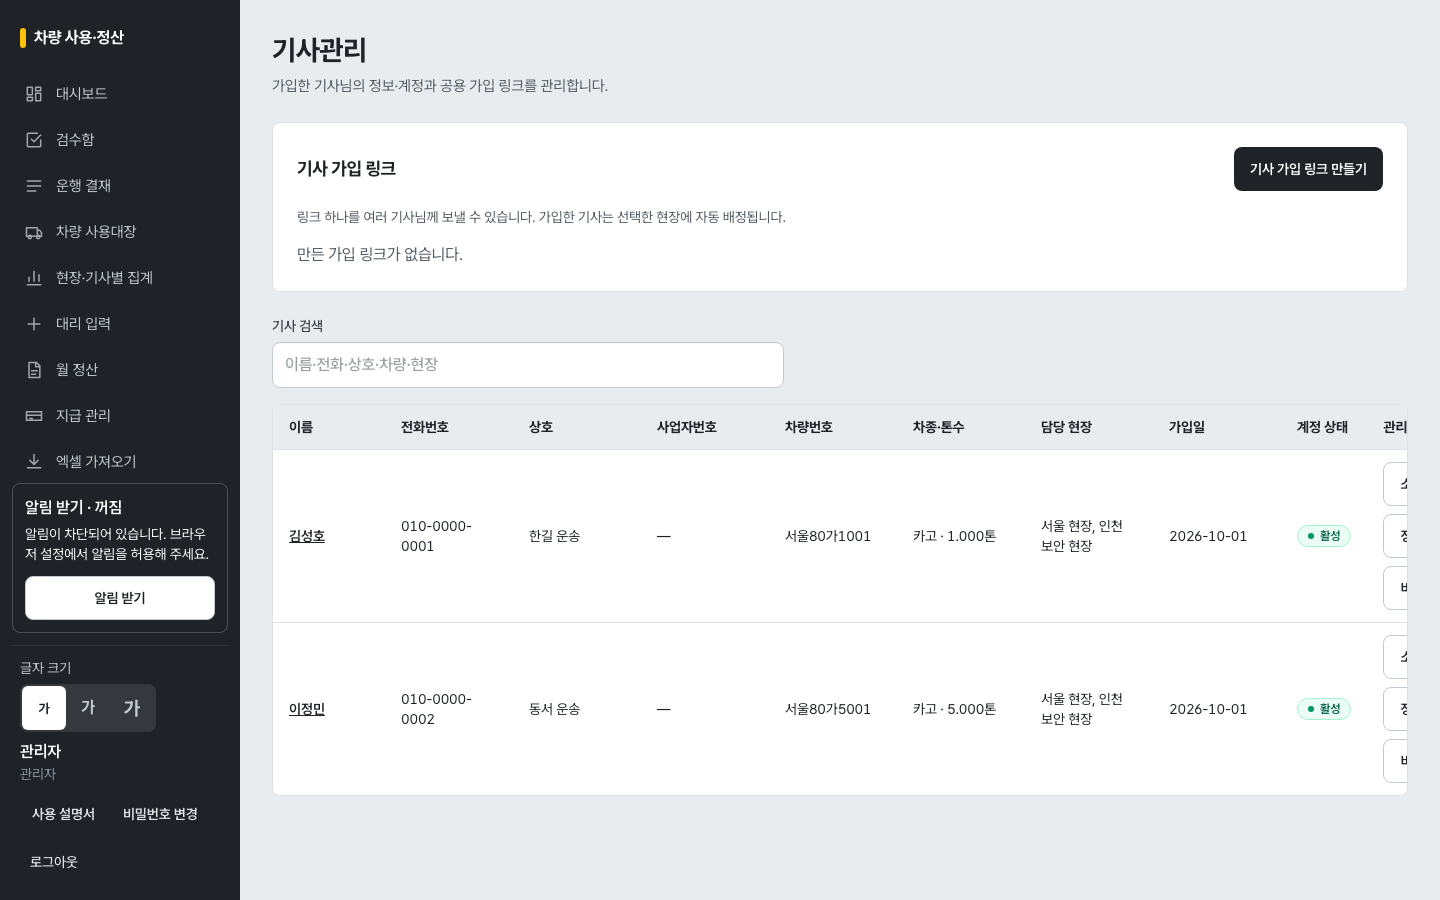
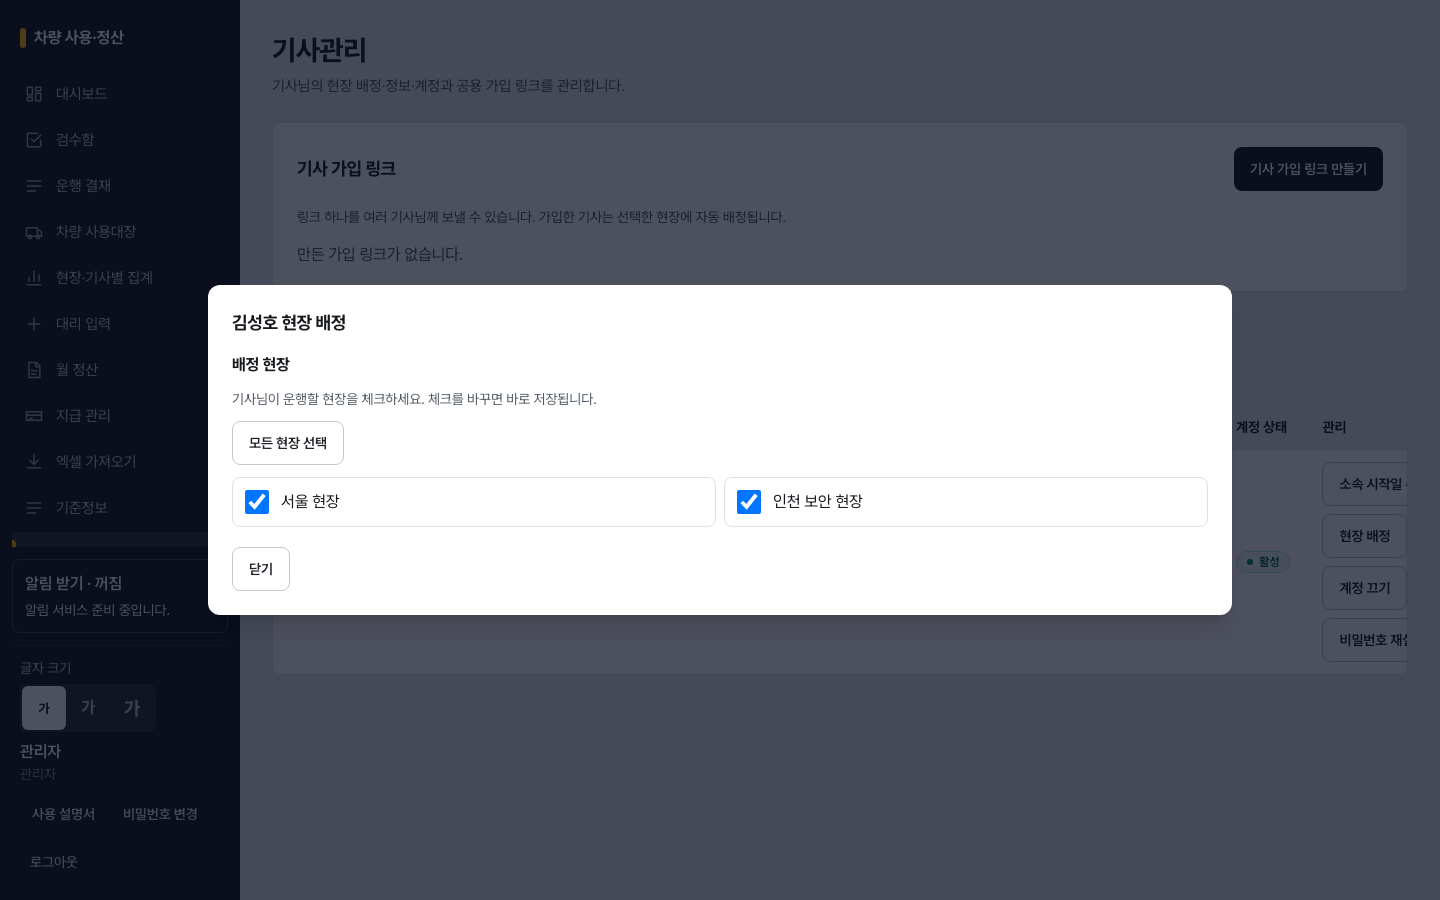
현장 배정 설명서와 로컬 캡처 두 장 갱신
관리자 설명에 현장 생성 시 자동 배정과 기사관리 배정 변경을 추가한다. 3191 로컬 시연 화면만 촬영하고 F3-ASSIGN 검증 결과와 공용 파일 변경을 기록한다.

diff --git a/src/app/manual/page.tsx b/src/app/manual/page.tsx
@@ -604,7 +604,12 @@ export default function ManualPage() {
             기사가 운행마다 금액을 넣게 하면 됩니다.
           </p>
           <Shot src="42-master" alt="기준정보" />
-          <Shot src="48-project-create" alt="현장 이름만 등록" />
+          <p>
+            현장을 만들 때 <B>지금 등록된 기사 모두에게 이 현장 배정</B>이 기본으로 켜져 있어, 등록된 기사님이
+            바로 현장을 고를 수 있습니다. 배정을 바꾸려면 <B>기사관리 → 현장 배정</B>에서 현장을 체크하거나
+            해제하세요.
+          </p>
+          <Shot src="48-project-create" alt="현장 만들기와 기사 자동 배정" />
           <h3 className="pt-4 text-xl font-bold">2. 기사 가입 링크·사용자 초대</h3>
           <p>
             <B>기사관리 → 기사 가입 링크 만들기</B>에서 담당 현장과 유효기간(기본 14일)을 고릅니다. 링크

diff --git a/tests/e2e/MANUAL-captures.spec.ts b/tests/e2e/MANUAL-captures.spec.ts
@@ -12,7 +12,7 @@ for (const width of [390, 1440]) {
       '알림 받기 설정',
       '운행 결재 목록',
       '운행 보고서 PDF',
-      '현장 이름만 등록',
+      '현장 만들기와 기사 자동 배정',
       '기사관리',
       '기사 가입 링크 만들기',
       '기사 가입 화면',

diff --git a/docs/reports/F3-ASSIGN.md b/docs/reports/F3-ASSIGN.md
@@ -1,0 +1,42 @@
+# F3-ASSIGN 현장 배정 막힘 수정
+
+## 원인과 수정
+
+| 항목 | 원인 | 수정 | 회귀 검증 |
+| --- | --- | --- | --- |
+| 기사 홈·운행 등록 | 유효 배정이 없으면 빈 선택 상자만 표시 | 홈 상단에 안내 1회, 폼에는 빈 선택 상자 대신 같은 카드. 서버 저장·보내기 버튼과 전송 진입을 차단 | F3-ASSIGN E2E: 360px, 실제 글자 20px, 안내 개수·버튼 비활성·가로 넘침 |
+| 기사관리 | 배정 변경이 별도 사용자 관리에 있어 찾기 어려움 | 목록·정보 상세에 배정 현장, 미배정 주황 표시, 체크 즉시 추가·해제, 모든 활성 현장 선택. 닫기 버튼 제공 | F3-ASSIGN 통합: 권한·감사·기간, E2E: 배정 → 기사 현장 선택 가능 → 회수 → 안내 복귀, 담당자 1440/390px |
+| 새 현장 | 기사 초대 후 현장을 만들어도 기존 기사 배정이 생기지 않음 | 기본 켜진 자동 배정 선택. 활성 DRIVER 전원에게 오늘부터 배정하고 현장 생성·배정·감사를 같은 트랜잭션으로 저장, 결과 인원 표시 | F3-ASSIGN 통합: 대상·제외·감사·롤백·해제·기존 API·PATCH, E2E: 기본 체크·실제 배정·결과 인원 |
+| 기사 초대·가입 링크 | 개별 초대는 빈 현장을 허용. 공용 링크는 이미 최소 1개 검증 | DRIVER 개별 초대도 서버에서 최소 1개 필수. 두 화면에 필수 안내·전체 선택·빈 선택 시 생성 비활성 | F3-ASSIGN 통합: 연결 유무·생략·빈 배열·정상·다른 역할, E2E: 두 화면 필수·전체 선택, 기존 가입·초대 E2E |
+| 시작 준비 | 기본 정보가 있으면 체크리스트가 사라져 미배정 기사를 놓침 | 현재 유효한 활성 현장이 없는 활성 기사 수와 기사관리 링크. 0명일 때만 해당 안내 숨김 | F3-ASSIGN 통합: 미래·만료·중지 현장·비활성 계정 제외, E2E: 실제 대시보드 안내 |
+| 사용 설명서 | 현장 생성·기사관리 배정 설명 부재 | 관리자 본문 2문장, 현장 배정·현장 생성 장면 2장만 로컬 재촬영 | MANUAL-captures E2E: 390/1440px, 이미지 로딩·원본 동일·넘침, 직접 화면 확인 |
+
+## 권한과 호환성 판단
+
+- 배정 편집은 기존 규칙대로 ADMIN 전용. 정산·현장 담당자는 배정 편집 권한을 새로 받지 않는다.
+- 기사관리에서도 `/api/admin/assignments` POST 및 `/:id` DELETE와 기존 서비스의 관리자 잠금·기간 중복 검사·감사·HTTP 멱등 처리를 사용한다. 배정에는 원래 version 필드가 없다. 기사 정보·계정 변경의 사용자 version 규칙은 유지한다.
+- `assign_all_drivers`는 생성 전용. 화면은 true가 기본이며 기존 API 호출에서 생략하면 false로 동작한다. 수정 시에는 추가 배정을 하지 않는다. 사용 중지한 현장에 자동 배정 요청은 거부한다.
+- 별도 마이그레이션·패키지는 없다. `driver-identity.ts`, `uses.ts`는 변경하지 않았다.
+- 오프라인 공용 컴포넌트에는 Next 전용 import를 추가하지 않았고 `pwa:build` 및 기존 오프라인 E2E가 통과했다.
+
+## 테스트 결과
+
+새 통합 3개와 새 E2E 3개를 먼저 저장하고 각각 수정 전 실패를 확인했다. 권한·감사는 실제 PostgreSQL로 검증했다.
+
+- `npm run typecheck && npm run lint && npm run format:check && npm test`: 85개 파일, 492개 테스트 통과.
+- 관련 E2E: 고유 17개 통과. F3-ASSIGN 3, JOIN-drivers 5, W2-driver 2, W6-offline-form 2, W8b-admin 3, MANUAL-captures 2.
+- 관련 E2E 첫 실행의 14개 통과 후, 기존 관리자 초대 3개에 새 필수 현장 선택 단계를 반영했다. 최종 F3-ASSIGN/W8b-admin/MANUAL-captures 8개 재실행 통과.
+- 기존 통합 JOIN-drivers/W8b-admin의 성공 초대 입력도 현장을 지정하도록 갱신했다. 기존 JOIN E2E의 연결 없는 현장 삭제 시나리오는 자동 배정 체크를 끄고 검증한다.
+- CLI는 `PG_PORT=54391 DOTENV_CONFIG_PATH=.env.local`, 웹/E2E는 `PORT=3191 APP_URL=http://localhost:3191`만 사용했다. E2E 전후 개발 DB의 운행·명세·지급·증빙·감사·가져오기 행 수가 동일했다.
+- 캡처: 54391의 별도 로컬 시연 DB `vehicle_manual_f3_assign`, `BASE=http://localhost:3191 node docs/manual/capture/assignments.mjs`. 운영 사이트·운영 DB·배포 비밀 파일 미접근.
+
+## 바꾼 공용 파일
+
+- 서버: `src/server/services/admin.ts`, `schemas.ts`, `setup-status.ts`, `driver-profiles.ts`(현재 배정 현장의 활성 조건만).
+- 화면: `src/client/driver-dashboard.tsx`, `src/components/use-form/use-form.tsx`, `src/components/manager/{dashboard,drivers,driver-join-links,master,users}.tsx`. 안내 카드와 배정 편집기를 별도 파일로 추가했다.
+- 문서: `docs/API.md`, `src/app/manual/page.tsx`, `docs/manual/README.md`, `docs/manual/capture/lib.mjs`(3191 로컬 주소만 추가 허용), 전용 부분 캡처 스크립트, `45-drivers`·`48-project-create`의 원본/공개 PNG.
+- 기존 테스트: 통합 `JOIN-drivers`, `W8b-admin`; E2E `JOIN-drivers`, `W8b-admin`, `MANUAL-captures`.
+
+## 남은 운영 작업
+
+코드에서 확인된 미해결 결함은 없다. 이 작업은 운영에 배포하지 않았고 기존 운영 배정 데이터도 변경하지 않았다. 배포 후 기존 미배정 기사에 대해서는 **기사관리 → 현장 배정 → 모든 현장 선택**을 한 번 실행해야 한다. 이후 새 현장은 기본 자동 배정되며 새 기사 초대는 현장 없이는 만들 수 없다.

diff --git a/docs/manual/README.md b/docs/manual/README.md
@@ -8,7 +8,7 @@
 
 ## 안전 및 로컬 준비
 
-캡처·감사·PDF 내보내기는 **`http://localhost:3183`만 허용**한다. `BASE`를 생략해도 같은 주소다. 운영 주소·외부 주소·다른 포트가 들어오면 브라우저 실행 전에 종료하며, 브라우저의 외부 요청도 차단한다. 운영 사이트와 운영 DB에는 접속하지 않는다.
+캡처·감사·PDF 내보내기의 기본 주소는 **`http://localhost:3183`**이며 F3-ASSIGN 부분 촬영용 **`http://localhost:3191`**도 허용한다. `BASE`를 생략하면 기본 주소를 쓴다. 운영 주소·외부 주소·허용하지 않은 포트가 들어오면 브라우저 실행 전에 종료하며, 브라우저의 외부 요청도 차단한다. 운영 사이트와 운영 DB에는 접속하지 않는다.
 
 이 워크트리 `.env.local`의 `PG_PORT=54383`를 확인한다. CLI는 `.env.local`을 자동으로 읽지 않으므로 아래 환경 변수를 지정한다. DB 명령의 `DATABASE_URL`이 별도로 설정되어 있다면 반드시 전용 로컬 DB인지 먼저 확인한다.
 
@@ -99,3 +99,7 @@ PORT=3183 npx playwright test tests/e2e/FIX-REQ-manual.spec.ts tests/e2e/MANUAL-
 ## 확인된 범위 밖 문제
 
 전체 관련 E2E 중 `AGG-summary.spec.ts`의 1440px/390px 두 건은 집계에서 사용대장으로 이동한 뒤 기사 필터가 비어 실패한다. `/api/ledger/options`가 현장 담당자에게 허용되지 않는 `listMaster`를 호출하는 기존 경로다. 해당 업무 권한 코드는 F2-LOOKUP 범위여서 이번 작업에서는 변경하지 않았다. F2-UI는 선택 표시·결재 표·사이드바·기사 필터와 설명서 캡처를 수정했다. 집계 화면 자체의 수치·표·엑셀 검증은 통과했다.
+
+### 현장 배정 부분 촬영 (F3-ASSIGN)
+
+`BASE=http://localhost:3191 node docs/manual/capture/assignments.mjs`는 54391의 전용 로컬 시연 DB를 연결한 3191 서버에서 기사관리 배정과 현장 생성 두 장면만 갱신한다. 공용 캡처 도구는 추가로 이 로컬 주소만 허용하며 외부 요청 차단은 유지한다. `45-drivers`, `48-project-create`의 원본과 공개 PNG를 함께 갱신한다.
